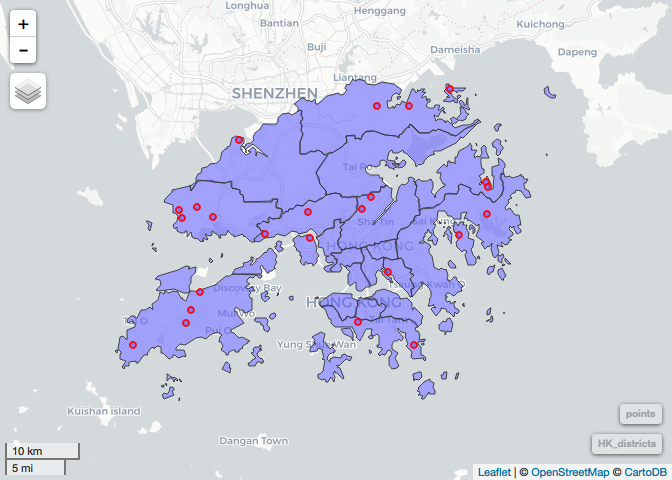
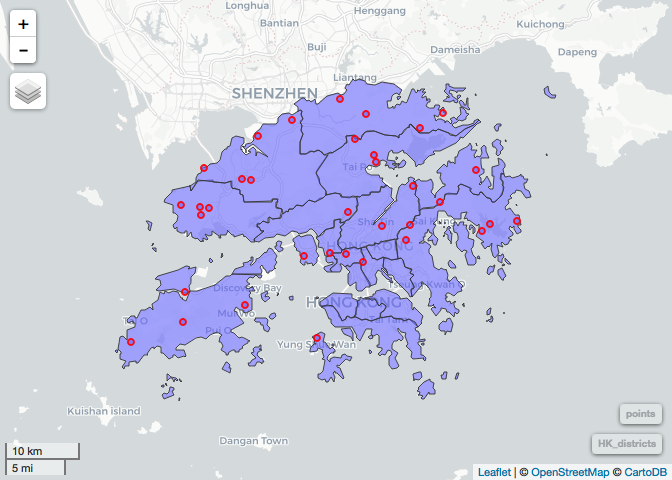
polish first half day 2

diff --git a/Materials/Day2/Spatial_Data_in_R.md b/Materials/Day2/Spatial_Data_in_R.md
@@ -70,14 +70,14 @@ Step 1. Set up our environment and read in the data
 library(tidyverse)
 ```
 
-    ## ── Attaching packages ──────────────────────────────────────────────────────── tidyverse 1.2.1 ──
+    ## ── Attaching packages ─────────────────────────────────────────────────────────────────────────────────────────────── tidyverse 1.2.1 ──
 
     ## ✔ ggplot2 2.2.1.9000     ✔ purrr   0.2.4     
     ## ✔ tibble  1.3.4          ✔ dplyr   0.7.4     
     ## ✔ tidyr   0.7.2          ✔ stringr 1.2.0     
     ## ✔ readr   1.1.1          ✔ forcats 0.2.0
 
-    ## ── Conflicts ─────────────────────────────────────────────────────────── tidyverse_conflicts() ──
+    ## ── Conflicts ────────────────────────────────────────────────────────────────────────────────────────────────── tidyverse_conflicts() ──
     ## ✖ dplyr::filter() masks stats::filter()
     ## ✖ dplyr::lag()    masks stats::lag()
 
@@ -351,35 +351,46 @@ st_sf(points) %>% st_join(., HK_districts)
 
     ## although coordinates are longitude/latitude, st_intersects assumes that they are planar
 
-    ## Simple feature collection with 24 features and 14 fields
+    ## Simple feature collection with 35 features and 14 fields
     ## geometry type:  POINT
     ## dimension:      XY
-    ## bbox:           xmin: 113.8597 ymin: 22.22392 xmax: 114.3471 ymax: 22.54966
+    ## bbox:           xmin: 113.8563 ymin: 22.22863 xmax: 114.3869 ymax: 22.53628
     ## epsg (SRID):    4326
     ## proj4string:    +proj=longlat +datum=WGS84 +no_defs
     ## First 10 features:
-    ##    ID_0 ISO    NAME_0 ID_1    NAME_1 HASC_1 CCN_1 CCA_1   TYPE_1  ENGTYPE
-    ## 1   102 HKG Hong Kong    3   Islands  HK.IS    NA  <NA> District District
-    ## 2   102 HKG Hong Kong    9   Sha Tin  HK.ST    NA  <NA> District District
-    ## 3   102 HKG Hong Kong   14  Tuen Mun  HK.TM    NA  <NA> District District
-    ## 4   102 HKG Hong Kong   11  Southern  HK.SO    NA  <NA> District District
-    ## 5   102 HKG Hong Kong    6 Kwun Tong  HK.KU    NA  <NA> District District
-    ## 6   102 HKG Hong Kong   13 Tsuen Wan  HK.TW    NA  <NA> District District
-    ## 7   102 HKG Hong Kong   12    Tai Po  HK.TP    NA  <NA> District District
-    ## 8   102 HKG Hong Kong    3   Islands  HK.IS    NA  <NA> District District
-    ## 9   102 HKG Hong Kong   12    Tai Po  HK.TP    NA  <NA> District District
-    ## 10  102 HKG Hong Kong    8  Sai Kung  HK.SK    NA  <NA> District District
-    ##    NL_NAME VARNAME   Shp_Lng     Shap_Ar                       geometry
-    ## 1     <NA>    <NA> 2.7542074 0.015733596 POINT (113.859657056394 22....
-    ## 2     <NA>    <NA> 0.5821248 0.005895610 POINT (114.185894329297 22....
-    ## 3     <NA>    <NA> 0.7959588 0.007939630 POINT (113.923209938586 22....
-    ## 4     <NA>    <NA> 0.8811445 0.003718947 POINT (114.168049511398 22....
-    ## 5     <NA>    <NA> 0.1927009 0.001029288 POINT (114.210146803441 22....
-    ## 6     <NA>    <NA> 0.7908177 0.005404587 POINT (114.041411801872 22....
-    ## 7     <NA>    <NA> 1.9998019 0.013501973 POINT (114.343913556551 22....
-    ## 8     <NA>    <NA> 2.7542074 0.015733596 POINT (113.951472191416 22....
-    ## 9     <NA>    <NA> 1.9998019 0.013501973 POINT (114.347111770318 22....
-    ## 10    <NA>    <NA> 2.5614897 0.012582268 POINT (114.307721735027 22....
+    ##    ID_0 ISO    NAME_0 ID_1       NAME_1 HASC_1 CCN_1 CCA_1   TYPE_1
+    ## 1   102 HKG Hong Kong   14     Tuen Mun  HK.TM    NA  <NA> District
+    ## 2   102 HKG Hong Kong    8     Sai Kung  HK.SK    NA  <NA> District
+    ## 3   102 HKG Hong Kong   18    Yuen Long  HK.YL    NA  <NA> District
+    ## 4   102 HKG Hong Kong    3      Islands  HK.IS    NA  <NA> District
+    ## 5   102 HKG Hong Kong   14     Tuen Mun  HK.TM    NA  <NA> District
+    ## 6   102 HKG Hong Kong    4 Kowloon City  HK.KC    NA  <NA> District
+    ## 7   102 HKG Hong Kong    3      Islands  HK.IS    NA  <NA> District
+    ## 8   102 HKG Hong Kong    9      Sha Tin  HK.ST    NA  <NA> District
+    ## 9   102 HKG Hong Kong    3      Islands  HK.IS    NA  <NA> District
+    ## 10  102 HKG Hong Kong    8     Sai Kung  HK.SK    NA  <NA> District
+    ##     ENGTYPE NL_NAME VARNAME   Shp_Lng      Shap_Ar
+    ## 1  District    <NA>    <NA> 0.7959588 0.0079396304
+    ## 2  District    <NA>    <NA> 2.5614897 0.0125822680
+    ## 3  District    <NA>    <NA> 0.8802538 0.0121403618
+    ## 4  District    <NA>    <NA> 2.7542074 0.0157335956
+    ## 5  District    <NA>    <NA> 0.7959588 0.0079396304
+    ## 6  District    <NA>    <NA> 0.2588975 0.0009319862
+    ## 7  District    <NA>    <NA> 2.7542074 0.0157335956
+    ## 8  District    <NA>    <NA> 0.5821248 0.0058956100
+    ## 9  District    <NA>    <NA> 2.7542074 0.0157335956
+    ## 10 District    <NA>    <NA> 2.5614897 0.0125822680
+    ##                          geometry
+    ## 1  POINT (113.925868417528 22....
+    ## 2  POINT (114.349924911183 22....
+    ## 3  POINT (114.077785925781 22....
+    ## 4  POINT (113.930414136978 22....
+    ## 5  POINT (113.952787107826 22....
+    ## 6  POINT (114.175931830609 22....
+    ## 7  POINT (114.112771992756 22....
+    ## 8  POINT (114.243565141369 22....
+    ## 9  POINT (113.856258161929 22....
+    ## 10 POINT (114.386890085383 22....
 
 ``` r
 # Similar functions are available in other libraries:
@@ -401,23 +412,23 @@ st_sf(points) %>%
     ## Simple feature collection with 11 features and 2 fields
     ## geometry type:  GEOMETRY
     ## dimension:      XY
-    ## bbox:           xmin: 113.8597 ymin: 22.22392 xmax: 114.3471 ymax: 22.54966
+    ## bbox:           xmin: 113.8563 ymin: 22.22863 xmax: 114.3869 ymax: 22.53628
     ## epsg (SRID):    4326
     ## proj4string:    +proj=longlat +datum=WGS84 +no_defs
     ## # A tibble: 11 x 3
-    ##        NAME_1     n          geometry
-    ##        <fctr> <int>  <simple_feature>
-    ##  1    Islands     4 <MULTIPOINT (...>
-    ##  2 Kwai Tsing     1 <POINT (114.1...>
-    ##  3  Kwun Tong     1 <POINT (114.2...>
-    ##  4      North     3 <MULTIPOINT (...>
-    ##  5   Sai Kung     2 <MULTIPOINT (...>
-    ##  6    Sha Tin     2 <MULTIPOINT (...>
-    ##  7   Southern     2 <MULTIPOINT (...>
-    ##  8     Tai Po     2 <MULTIPOINT (...>
-    ##  9  Tsuen Wan     2 <MULTIPOINT (...>
-    ## 10   Tuen Mun     4 <MULTIPOINT (...>
-    ## 11  Yuen Long     1 <POINT (114.0...>
+    ##          NAME_1     n          geometry
+    ##          <fctr> <int>  <simple_feature>
+    ##  1      Islands     5 <MULTIPOINT (...>
+    ##  2 Kowloon City     1 <POINT (114.1...>
+    ##  3   Kwai Tsing     2 <MULTIPOINT (...>
+    ##  4        North     4 <MULTIPOINT (...>
+    ##  5     Sai Kung     5 <MULTIPOINT (...>
+    ##  6      Sha Tin     2 <MULTIPOINT (...>
+    ##  7 Sham Shui Po     1 <POINT (114.1...>
+    ##  8       Tai Po     5 <MULTIPOINT (...>
+    ##  9    Tsuen Wan     1 <POINT (114.1...>
+    ## 10     Tuen Mun     4 <MULTIPOINT (...>
+    ## 11    Yuen Long     5 <MULTIPOINT (...>
 
 ``` r
 # all while retaining the spatial geometry associated with each point. 
@@ -433,7 +444,7 @@ Above, all our vector data have been in the WGS84 spherical coordinate reference
 
 ![](../../images/crs.png)
 
-It is cruial when doing spatial analyses to know and match the coordinate systems across all of your datasets and ensure everything is properly projected, or your results may be incorrect or your analysis may fail. This is true whether you are working with raster or vector data.
+It is crucial when doing spatial analyses to know and match the coordinate systems across all of your datasets and ensure everything is properly projected, or your results may be incorrect or your analysis may fail. This is true whether you are working with raster or vector data.
 
 ``` r
 library(raster)
@@ -474,21 +485,50 @@ crs(land_cover)
     ## CRS arguments:
     ##  +proj=longlat +datum=WGS84 +no_defs +ellps=WGS84 +towgs84=0,0,0
 
-Perhaps we want to work with both our HK\_districts and the landcover dataset but in a planar coordinate system
+Perhaps we want to work with both our HK\_districts and the landcover dataset but in a planar coordinate system. To do this with an `sf` object we use `st_transform`, with a raster object, `projectRaster`.
+
+Let's crop and transform these data into the [World Azimuthal Equidistant](https://epsg.io/54032) projection to compare.
 
 ``` r
+# to save time on the projection, let's trim the extent before projecting. 
+# We can do this because they are already in the same geographic crs. 
+# however, the extent call doesn't recognize sf objects yet so let's temporarily switch it back to `sp` format
 HK_landcover <- crop(land_cover, extent(as(HK_boundary, "Spatial")))
+
+HK_lc_proj <- projectRaster(HK_landcover, method= 'ngb', NAflag = 0,
+                                crs = "+proj=aeqd +lat_0=0 +lon_0=0 +x_0=0 +y_0=0 +datum=WGS84 +units=m +no_defs")
 ```
 
-### intersections, extractions
+By plotting these side by side, you can really see how different projections can be!
+
+``` r
+plot(HK_landcover)
+```
+
+![](Spatial_Data_in_R_files/figure-markdown_github/unnamed-chunk-14-1.png)
+
+``` r
+plot(HK_lc_proj)
+```
+
+![](Spatial_Data_in_R_files/figure-markdown_github/unnamed-chunk-14-2.png)
+
+### Intersections & Extractions
+
+Commonly in movement ecology, we need to extract values from rasters across our vector data be it points where an animal walked or polygons like their home range or breeding sites for instance.
+
+There are a number of functions to do this sort of spatial intersect and extraction in the rgeos and raster libraries e.g `gIntersection` and `extract` but they can be very inefficient in R - especially for large rasters. New libraries like `fasterize` and `velox` have been built to make these functions significantly faster. Below I will introduce `velox` but you can find more information about both by exploring their github pages.
+
+Say we want to know the percentage of each landcover class each district is made up of. We can convert to a velox object to quickly and easily extract this information and use dplyr and purrr verbs to make a clean table of percentages by landcover class.
 
 ``` r
 library(velox)
-vx <- velox(HK_landcover)
+vx <- velox(HK_landcover) # makes a velox object from our raster
 
+# lets give our classes names
 landcover <- c("Water",
  "Evergreen Needle leaf Forest",
-  "Evergreen Broadleaf Forest",
+ "Evergreen Broadleaf Forest",
  "Deciduous Needle leaf Forest",
  "Deciduous Broadleaf Forest",  
  "Mixed Forests",
@@ -503,18 +543,140 @@ landcover <- c("Water",
  "Cropland/Natural Vegetation Mosaic", # #15 snow and ice not encountered
  "Barren or Sparsely Vegetated")
 
-landcover_by_district <- vx$extract(HK_districts) %>% 
-  map(., plyr::count) %>% 
-  reduce(., function(dtf1,dtf2) full_join(dtf1,dtf2, by="x")) %>% 
-  arrange(x) 
+landcover_by_district <- vx$extract(HK_districts) %>% #extracts the raster cells in each district
+  map(., plyr::count) %>%  #counts each category
+  reduce(., function(dtf1,dtf2) full_join(dtf1,dtf2, by="x")) %>%  # reduces to a dataframe
+  arrange(x) # orders
 
-landcover_by_district[is.na(landcover_by_district)] <- 0
-names(landcover_by_district) <- c("Class_No", seq(1,18,1))
-landcover_by_district$Class <- landcover
+head(landcover_by_district)
+```
 
-district_totals <- map_dbl(landcover_by_district[,2:19], sum)
+    ##   x freq.x freq.y freq.x.x freq.y.y freq.x.x.x freq.y.y.y freq.x.x.x.x
+    ## 1 0     15      4      132        2         16         NA           10
+    ## 2 1     NA     NA       NA       NA         NA         NA           NA
+    ## 3 2      8     31      182       NA         NA         NA          203
+    ## 4 3      1     NA       10       NA         NA         NA           NA
+    ## 5 4     NA     NA        1       NA         NA         NA           NA
+    ## 6 5      7      5      134       NA          5         NA           25
+    ##   freq.y.y.y.y freq.x.x.x.x.x freq.y.y.y.y.y freq.x.x.x.x.x.x
+    ## 1           36             NA              5               28
+    ## 2            1             NA             NA               NA
+    ## 3          216             99             NA               73
+    ## 4            3             NA             NA                6
+    ## 5            1             NA             NA               NA
+    ## 6           36             24             NA                7
+    ##   freq.y.y.y.y.y.y freq.x.x.x.x.x.x.x freq.y.y.y.y.y.y.y
+    ## 1               47                 18                 52
+    ## 2                1                 NA                 NA
+    ## 3              334                 95                 12
+    ## 4               NA                  1                  4
+    ## 5               NA                 NA                 NA
+    ## 6               58                 23                 15
+    ##   freq.x.x.x.x.x.x.x.x freq.y.y.y.y.y.y.y.y freq.x.x.x.x.x.x.x.x.x
+    ## 1                    4                   NA                     17
+    ## 2                   NA                   NA                     NA
+    ## 3                    7                    5                     NA
+    ## 4                   NA                   NA                     NA
+    ## 5                   NA                   NA                     NA
+    ## 6                    1                   NA                     NA
+    ##   freq.y.y.y.y.y.y.y.y.y
+    ## 1                     26
+    ## 2                     NA
+    ## 3                     74
+    ## 4                     NA
+    ## 5                     NA
+    ## 6                     16
 
-for (i in 1:18){
+``` r
+landcover_by_district[is.na(landcover_by_district)] <- 0 # make NAs 0
+names(landcover_by_district) <- c("Class_No", seq(1,18,1)) # improve column names
+landcover_by_district$Class <- landcover # add a column including each landover class name
+
+head(landcover_by_district)
+```
+
+    ##   Class_No  1  2   3 4  5 6   7   8  9 10 11  12 13 14 15 16 17 18
+    ## 1        0 15  4 132 2 16 0  10  36  0  5 28  47 18 52  4  0 17 26
+    ## 2        1  0  0   0 0  0 0   0   1  0  0  0   1  0  0  0  0  0  0
+    ## 3        2  8 31 182 0  0 0 203 216 99  0 73 334 95 12  7  5  0 74
+    ## 4        3  1  0  10 0  0 0   0   3  0  0  6   0  1  4  0  0  0  0
+    ## 5        4  0  0   1 0  0 0   0   1  0  0  0   0  0  0  0  0  0  0
+    ## 6        5  7  5 134 0  5 0  25  36 24  0  7  58 23 15  1  0  0 16
+    ##                          Class
+    ## 1                        Water
+    ## 2 Evergreen Needle leaf Forest
+    ## 3   Evergreen Broadleaf Forest
+    ## 4 Deciduous Needle leaf Forest
+    ## 5   Deciduous Broadleaf Forest
+    ## 6                Mixed Forests
+
+``` r
+district_totals <- map_dbl(landcover_by_district[,2:19], sum) #sum for each district, i.e. column
+district_totals
+```
+
+    ##   1   2   3   4   5   6   7   8   9  10  11  12  13  14  15  16  17  18 
+    ##  65  93 894  54 120  59 692 729 341  46 212 771 321 451  52  46  42 707
+
+``` r
+for (i in 1:18){ # convert to percentages
   landcover_by_district[,i+1] <- round((landcover_by_district[,i+1]/district_totals[i])*100,2)
 }
+
+# transpose things a little
+landcover_by_district %>%
+  dplyr::select(-Class_No) %>% 
+  gather(key = District_No, value = value, 1:18) %>% 
+  spread(key = names(.)[1], value = 'value') %>% 
+  arrange(as.numeric(District_No))  -> district_LC
+
+head(district_LC)
 ```
+
+    ##   District_No Barren or Sparsely Vegetated Closed Shrublands
+    ## 1           1                         3.08              0.00
+    ## 2           2                         2.15              1.08
+    ## 3           3                         0.34              0.00
+    ## 4           4                         1.85              0.00
+    ## 5           5                         2.50              0.83
+    ## 6           6                         0.00              0.00
+    ##   Cropland/Natural Vegetation Mosaic Croplands Deciduous Broadleaf Forest
+    ## 1                               0.00      1.54                       0.00
+    ## 2                               0.00      7.53                       0.00
+    ## 3                               2.91      3.47                       0.11
+    ## 4                               0.00      5.56                       0.00
+    ## 5                               0.00     10.00                       0.00
+    ## 6                               0.00      1.69                       0.00
+    ##   Deciduous Needle leaf Forest Evergreen Broadleaf Forest
+    ## 1                         1.54                      12.31
+    ## 2                         0.00                      33.33
+    ## 3                         1.12                      20.36
+    ## 4                         0.00                       0.00
+    ## 5                         0.00                       0.00
+    ## 6                         0.00                       0.00
+    ##   Evergreen Needle leaf Forest Grasslands Mixed Forests Open Shrublands
+    ## 1                            0       4.62         10.77            0.00
+    ## 2                            0       0.00          5.38            0.00
+    ## 3                            0       0.34         14.99            1.34
+    ## 4                            0       1.85          0.00            0.00
+    ## 5                            0       2.50          4.17            2.50
+    ## 6                            0       6.78          0.00            1.69
+    ##   Permanent Wetland Savannas Urban and Built-Up Water Woody Savannas
+    ## 1             18.46     0.00              20.00 23.08           4.62
+    ## 2             21.51     0.00              20.43  4.30           4.30
+    ## 3             27.18     0.78               4.14 14.77           8.17
+    ## 4              0.00     0.00              87.04  3.70           0.00
+    ## 5              7.50     0.00              55.83 13.33           0.83
+    ## 6              3.39     0.00              86.44  0.00           0.00
+
+In this format it's easy to pull out districts by their landcover characteristics.
+
+For instance, perhaps we want to know which districts are more than 80% Urban:
+
+``` r
+district_LC %>% filter(`Urban and Built-Up` > 80) %>% pull(District_No)
+```
+
+    ## [1] "4"  "6"  "16"
+
+We will continue to see how useful extraction in this afternoon's activity and we get to RSFs tomorrow.

diff --git a/Materials/Day2/Day2_README.md b/Materials/Day2/Day2_README.md
@@ -18,3 +18,9 @@
 | 13:30 – 14:45 | Livecode| DPS | Projecting and Plotting (proj4, transformations, visualization) |
 | 14:45 – 15:00 | Afternoon Break | | |
 | 15:00 – 16:30 | Hands on | | Practice plotting tracks and extracting path metrics |
+
+### Files
+- Lectures: HongKongMovement2018Lec2.pdf
+- LiveCode 1: Spatial_Data_in_R.Rmd
+- LiveCode 2: Movement_Data_Path_Metrics.Rmd
+- Activity: Day2_Activities.Rmd
